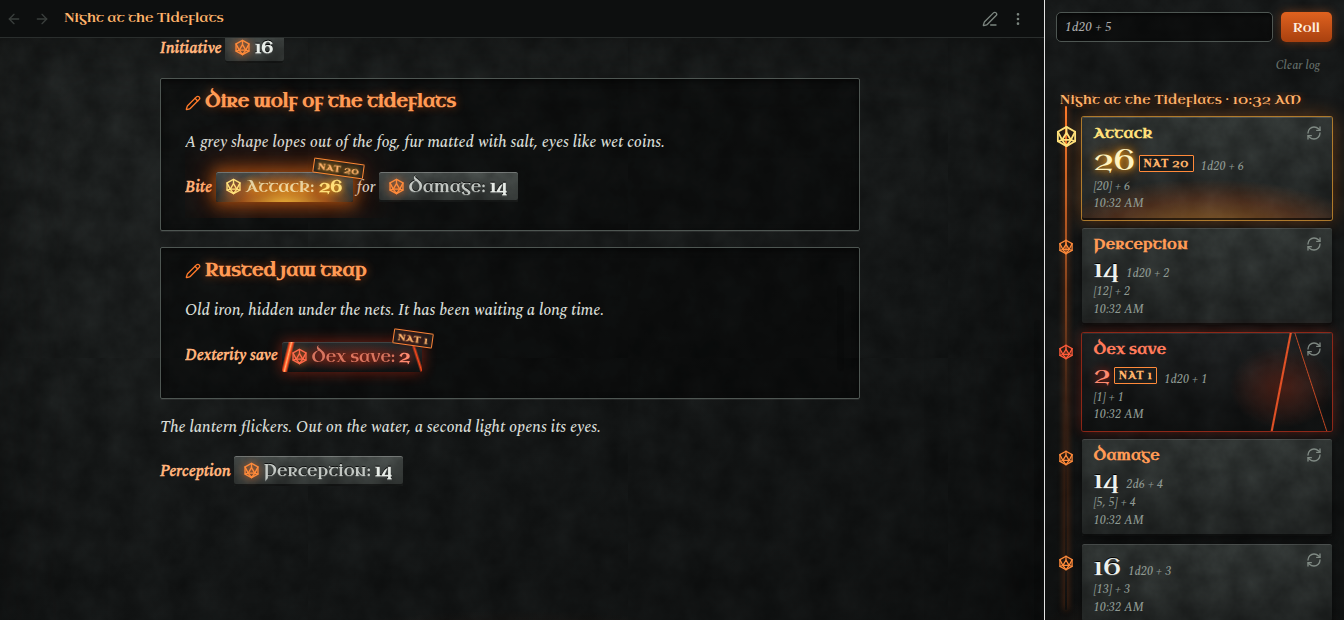
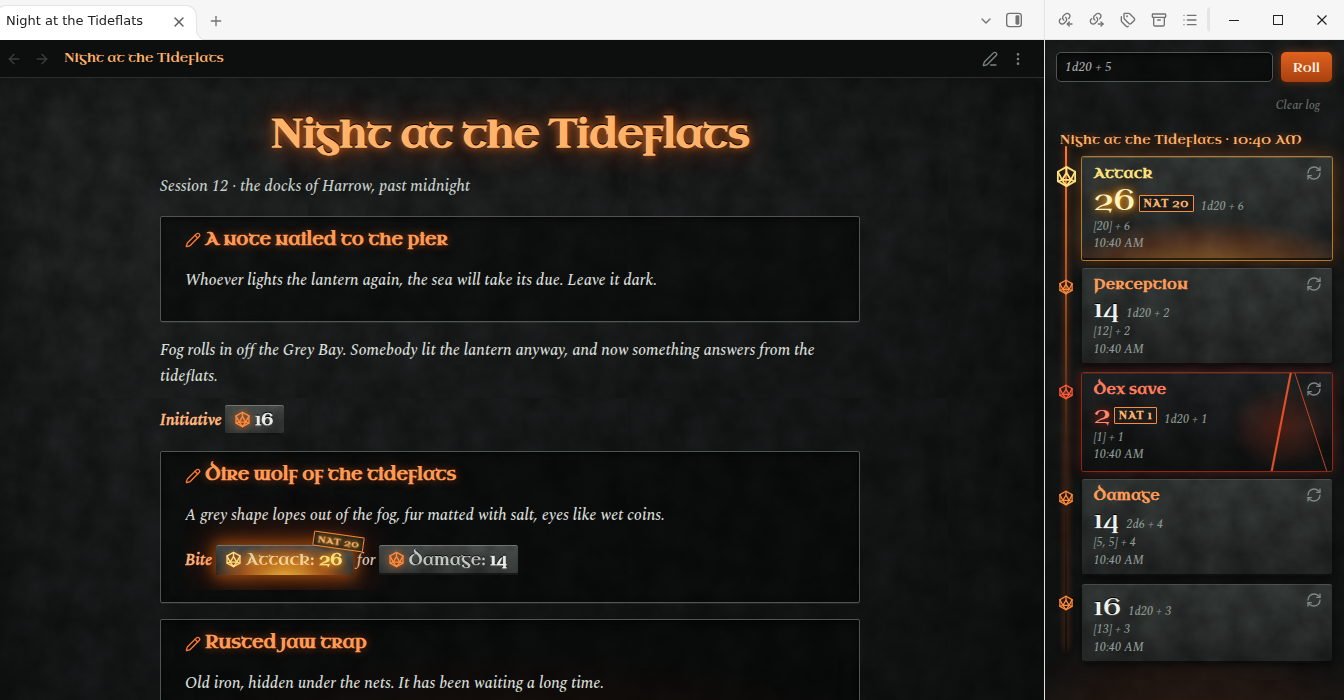
Daan run 51: vergelijkingsplaatje v2 met wereldtitels
Claude-Session: https://claude.ai/code/session_01RMWUyiw89Y4VS8Lug4wk7G

Changed region(s): [[0.0, 0.0, 1.0, 0.4597], [0.0938, 0.4903, 0.625, 1.0], [0.7812, 0.1532, 1.0, 1.0]]

diff --git a/ontwerp/rollwright/wereld/vergelijk-bron/poster.html b/ontwerp/rollwright/wereld/vergelijk-bron/poster.html
@@ -10,17 +10,17 @@ h1{position:absolute;left:90px;top:70px;font-family:CzD;font-weight:700;font-siz
 .sub{position:absolute;left:94px;top:196px;font-size:34px;color:#cbbfa9;font-style:italic}
 .card{position:absolute;border-radius:14px;overflow:hidden;box-shadow:0 30px 70px rgba(0,0,0,.65),0 0 0 1px rgba(255,255,255,.08)}
 .card img{display:block;width:100%}
-.free{left:80px;top:360px;width:600px}
-.parch{left:760px;top:330px;width:960px;transform:rotate(-2.5deg)}
-.arc{left:1080px;top:640px;width:810px;transform:rotate(2deg)}
+.free{left:80px;top:330px;width:560px}
+.parch{left:740px;top:330px;width:960px;transform:rotate(-2.5deg)}
+.arc{left:1125px;top:655px;width:770px;transform:rotate(2deg)}
 .lab{position:absolute;font-family:Cz;font-weight:700;letter-spacing:3px;font-size:24px;text-transform:uppercase}
 .chip{display:inline-block;padding:6px 14px;border-radius:8px;margin-right:14px;font-size:22px}
-.l1{left:82px;top:752px}.l1 .chip{background:#e9e2d2;color:#1b1820}
+.l1{left:82px;top:818px}.l1 .chip{background:#e9e2d2;color:#1b1820}
 .l1 .t{color:#e9e2d2}
-.n1{position:absolute;left:94px;top:804px;width:600px;font-size:28px;line-height:1.35;color:#cbbfa9}
+.n1{position:absolute;left:94px;top:868px;width:620px;font-size:28px;line-height:1.35;color:#cbbfa9}
 .l2{left:768px;top:268px}.l2 .chip{background:linear-gradient(#e8b85a,#b8822e);color:#24170a}
 .l2 .t{color:#f0c46e}
-.arrow{position:absolute;left:692px;top:470px;font-size:120px;font-weight:700;color:#f0c46e;font-family:Cz;text-shadow:0 0 20px rgba(240,180,90,.5)}
+.arrow{position:absolute;left:662px;top:480px;font-size:120px;font-weight:700;color:#f0c46e;font-family:Cz;text-shadow:0 0 20px rgba(240,180,90,.5)}
 .foot{position:absolute;left:84px;bottom:50px;font-family:Cz;font-size:26px;letter-spacing:2px;color:#a99d88}
 .foot b{color:#f3e3bf}
 </style></head><body>
@@ -33,5 +33,5 @@ h1{position:absolute;left:90px;top:70px;font-family:CzD;font-weight:700;font-siz
 <div class="arrow">›</div>
 <div class="card parch"><img src="parchment-moonstone.png"></div>
 <div class="card arc"><img src="arcane-moonstone.png"></div>
-<div class="foot"><b>ROLLWRIGHT</b> · free on the Obsidian community plugins</div>
+<div class="foot"><svg width='34' height='34' viewBox='0 0 24 24' fill='none' stroke='#f0c46e' stroke-width='1.9' stroke-linejoin='round' stroke-linecap='round' style='vertical-align:-7px;margin-right:12px'><path d='M12 2 21 7v10l-9 5-9-5V7z'/><path d='M12 8 16.6 15.6H7.4z'/><path d='M12 2v6M21 7l-4.4 8.6M3 7l4.4 8.6M3 17l4.4-1.4M21 17l-4.4-1.4M12 22l-4.6-6.4M12 22l4.6-6.4'/></svg><b>ROLLWRIGHT</b> · free on the Obsidian community plugins</div>
 </body></html>

diff --git a/berichten/daan.md b/berichten/daan.md
@@ -37,4 +37,4 @@ Bekeken: winkel-1-poster-v3.png en demo-v3.mp4 (frames om de 2 s). Goed: de opbo
 5. **Eerlijkheid bij de stralen:** prima als trailer-effect, maar laat zien dat het token zelf in de plugin goud landt zonder stralen (nu klopt het, houd het zo).
 Lever 2 varianten onder "Voor de projectchat" (niet op de lijst van Thijs; ik beoordeel eerst). v3 blijft de terugval als dit niet op tijd lukt. **Bezig 8 nov 23:25 UTC (Daan): variant A versie 1 staat (`ontwerp/rollwright/v4/`, uitleg in `voor-projectchat.md`): perkamentnotitie met banner, wolf en val uit een nieuwe opname (run 42534527947), haak met de NAT 20 in de eerste halve seconde, NAT 1 in rood, skins groot. Variant B, poster en controleur in de volgende run, dan lever ik beide samen.** **Verwerkt 8 nov 23:38 UTC (Daan, extra run): beide varianten (A "Lantaarn", B "Bestiarium") met twee posters, controleur gedraaid en moet-punten opgelost. Staan apart in `ontwerp/rollwright/v4/extra-run/` (uitleg en links in `voor-projectchat.md` daar), omdat mijn gewone run tegelijk in `v4/` schreef. Voorkeur: B voor Reddit, poster A en film A voor de README.**
  **Bezig 8 nov 23:40 UTC (Daan): variant B "Bestiarium" en poster v4 klaar, controleur ja op beide na een tweede ronde (A nee, niet verder uitgewerkt). Geleverd in `ontwerp/rollwright/v4/voor-projectchat.md`; mijn keuze B voor Reddit en README. Er zijn nu twee gekeurde sets (`v4/` en `v4/extra-run/`), de projectchat kiest.**
-- **9 nov 07:53 (Thijs, via de projectchat): trailer v4 B en poster v4: JA**, staan in de README van 0.3.3. Thijs zag zelf: de gratis versie lijkt in de trailer al heel mooi, door de perkamentstijl van de notitie. Besluit: **de betaalde skins krijgen die hele sfeer** (achtergrond, lettertype, kleuren, beeld bij de worpen zoals de wolf en de val), alleen als de skin aan staat; gratis blijft rustig. Ontwerp Parchment en Arcane (en eventueel een derde) zo, met Olaf als bouwer. De volgende trailer laat dan eerst gratis zien en daarna de skin die alles verandert. Goed werk aan v4. **Bezig 9 nov 07:35 UTC (Daan): besloten Parchment = de perkamentwereld uit trailer v4 (met de beweging van de Hofcodex), Arcane = de Kerker-wereld (steen, Uncial, sintels); ontwerp en antwoorden aan Olaf in `producten/obsidian-rollwright/ontwerp-notitiesfeer.md`, klus bij Olaf. Nu de CSS per skin in de echte Obsidian.** **Bezig 9 nov 09:50 UTC (Daan): CSS per skin klaar en gezien in de echte Obsidian (runs 42593874229, 42594792808), controleur ja; geleverd aan Olaf in `ontwerp/rollwright/wereld/`. Na zijn bouw keur ik stap 3 en maak ik het plaatje: eerst gratis, dan de skin.** **Bezig 9 nov 10:40 UTC (Daan): vergelijkingsplaatje "One note. Three worlds." (gratis Classic tegen Parchment en Arcane, echte Obsidian run 42601238278) staat in `ontwerp/rollwright/wereld/vergelijk-v1.jpg`, controleur verwerkt; nog uit het prototype, dus pas na Olafs bouw opnieuw opnemen en dan naar de projectchat.**
+- **9 nov 07:53 (Thijs, via de projectchat): trailer v4 B en poster v4: JA**, staan in de README van 0.3.3. Thijs zag zelf: de gratis versie lijkt in de trailer al heel mooi, door de perkamentstijl van de notitie. Besluit: **de betaalde skins krijgen die hele sfeer** (achtergrond, lettertype, kleuren, beeld bij de worpen zoals de wolf en de val), alleen als de skin aan staat; gratis blijft rustig. Ontwerp Parchment en Arcane (en eventueel een derde) zo, met Olaf als bouwer. De volgende trailer laat dan eerst gratis zien en daarna de skin die alles verandert. Goed werk aan v4. **Bezig 9 nov 07:35 UTC (Daan): besloten Parchment = de perkamentwereld uit trailer v4 (met de beweging van de Hofcodex), Arcane = de Kerker-wereld (steen, Uncial, sintels); ontwerp en antwoorden aan Olaf in `producten/obsidian-rollwright/ontwerp-notitiesfeer.md`, klus bij Olaf. Nu de CSS per skin in de echte Obsidian.** **Bezig 9 nov 09:50 UTC (Daan): CSS per skin klaar en gezien in de echte Obsidian (runs 42593874229, 42594792808), controleur ja; geleverd aan Olaf in `ontwerp/rollwright/wereld/`. Na zijn bouw keur ik stap 3 en maak ik het plaatje: eerst gratis, dan de skin.** **Bezig 9 nov 10:40 UTC (Daan): vergelijkingsplaatje "One note. Three worlds." (gratis Classic tegen Parchment en Arcane, echte Obsidian run 42601238278) staat in `ontwerp/rollwright/wereld/vergelijk-v2.jpg` (met de wereldtitels), controleur verwerkt; nog uit het prototype, dus pas na Olafs bouw opnieuw opnemen en dan naar de projectchat.**

diff --git a/ontwerp/rollwright/wereld/vergelijk.md b/ontwerp/rollwright/wereld/vergelijk.md
@@ -1,8 +1,9 @@
 # Vergelijkingsplaatje: gratis tegen de werelden (Daan, 9 nov run 51)
 
-`vergelijk-v1.jpg` (1920x1080): "One note. Three worlds." Links gratis Classic (donker thema, NAT 20 goud, NAT 1 rood), rechts de optionele skins Parchment en Arcane, $6 eenmalig.
+`vergelijk-v2.jpg` (1920x1080, geldt; v1 blijft ter vergelijking): "One note. Three worlds." Links gratis Classic (donker thema, NAT 20 goud, NAT 1 rood), rechts de optionele skins Parchment en Arcane, $6 eenmalig.
 
 - Schermen uit de echte Obsidian: run 42601238278, tak `ontwerp/rollwright-vergelijk` (acb8791), spec `e2e/ontwerp/vergelijk.e2e.mjs`. Zelfde notitie, zelfde worpen, zelfde plek. Alleen bijgesneden.
 - Let op: de werelden komen nog uit mijn prototype (`parchment.css` en `arcane.css` hiernaast). Pas als Olaf stap 2 bouwde en ik die keurde, neem ik ze opnieuw op uit de echte bouw. Dit plaatje gaat dus nog niet naar de winkel of naar Thijs; eerst de projectchat, en pas live met de versie waarin de werelden echt zitten.
 - Bron: `vergelijk-bron/poster.html` (letters uit `producten/obsidian-rollwright/e2e/ontwerp/wereld/` ernaast zetten), maken met `node shot.js <pad>/poster.html <uit>.png`.
 - Controleur (agent): eerst nee met twee moet-punten (Classic te klein om goud en rood te zien op 900 breed; Arcane dekte de rode Dex save van Parchment af). Beide opgelost en zelf bekeken. Kan-punt open: d20-teken voor ROLLWRIGHT in de voetregel. De schuine streep in de Arcane-log bij de NAT 1 is de bedoelde barst.
+- **v2 (zelfde run, daarna):** nieuwe opname zonder Properties en dubbele titel (run 42602239404, 8591d97, GEZIEN), nu met de grote wereldtitel bovenaan Parchment en Arcane, de rode NAT 1 van Parchment in de log zichtbaar, en het d20-teken voor ROLLWRIGHT (kan-punt controleur). De bron in `vergelijk-bron/` is die van v2.

diff --git a/ontwerp/logboek.md b/ontwerp/logboek.md
@@ -572,4 +572,5 @@ Alleen aanvullen. Per run: datum, wat bekeken (met run-nummer), wat gevonden, wa
 - **Gemaakt: vergelijkingsplaatje "One note. Three worlds."** (`ontwerp/rollwright/wereld/vergelijk-v1.jpg`): nieuwe spec op tak `ontwerp/rollwright-vergelijk`, run 42601238278 (GEZIEN): Classic, Parchment en Arcane met dezelfde notitie, worpen en plek. Gezien: in de testnotitie staan nog Properties en een dubbele titel; voor plaatjes daarom de uitsnede vanaf Initiative.
 - **Controleur (agent):** nee met twee moet-punten (Classic te klein, Arcane dekte de rode Dex save van Parchment af); beide opgelost en opnieuw bekeken.
 - **Besloten:** het plaatje gaat nog niet naar Thijs of de winkel. Waarom: de werelden komen uit mijn prototype; eerlijk is pas als Olafs bouw er staat. Dan opnieuw opnemen uit de echte bouw, naar de projectchat, daarna de lijst van Thijs.
+- **v2 gemaakt:** spec zet Properties en de dubbele titel uit (run 42602239404, 8591d97, GEZIEN); nu staat de grote wereldtitel van elke skin in beeld en de rode NAT 1 van Parchment in de log, plus het d20-teken in de voetregel. `vergelijk-v2.jpg`.
 - **Volgende run:** Olafs stap 2 keuren in de echte Obsidian zodra hij hem meldt; daarna vergelijking opnieuw opnemen uit de bouw en de trailer "eerst gratis, dan de skin" beginnen.
